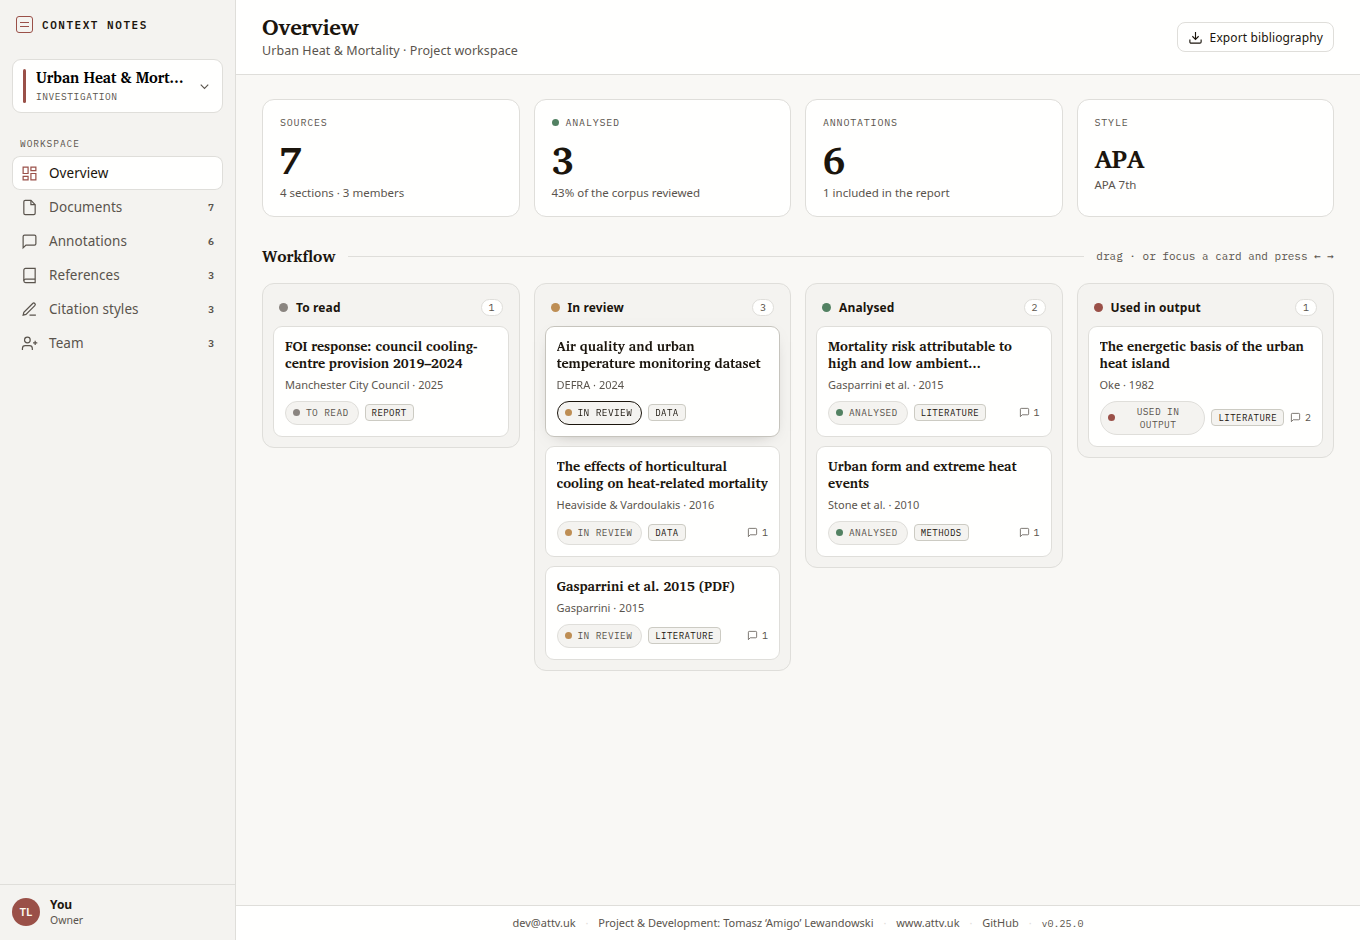
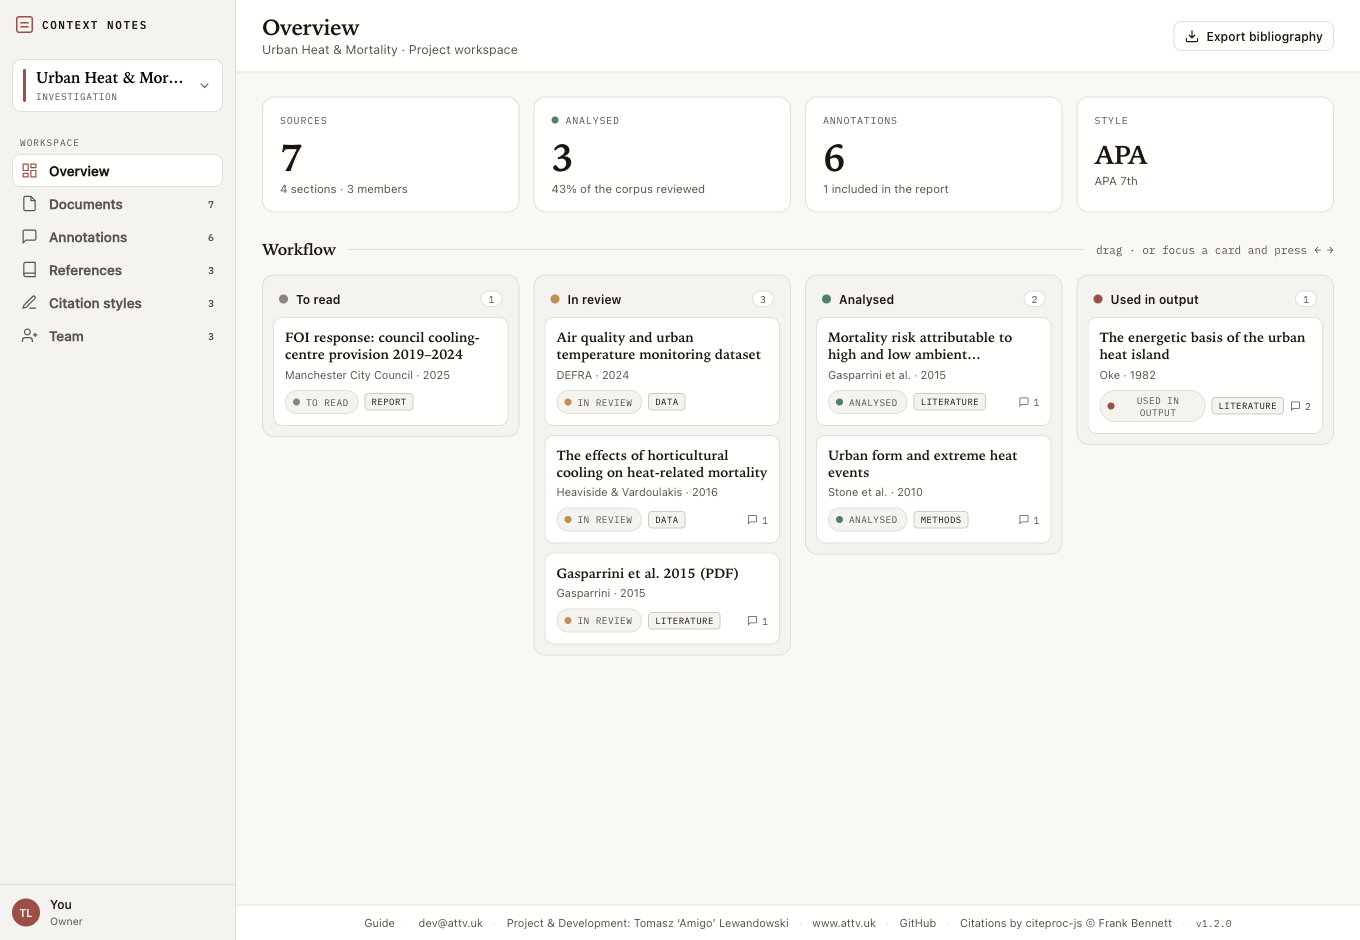
Tell the truth when Chrome won't let us read the tab, and offer the standing grant
Field report with the panel open on a real SAGE article: the capture card
said "No page metadata — open an article to capture it" while an article
with full Highwire tags and a DOI was open. The page was fine; Chrome was
refusing the injection. activeTab is granted only for the tab where the
toolbar icon was clicked and dies on navigation — so with the panel left
open, every page the user browses to next is unscriptable, and the panel
blamed the page for it. Automation never caught this because a gesture
grant cannot be driven by a test; a human found it in five minutes.

- scanActiveTab now distinguishes "Chrome refused the injection"
  (ScanAccessError) from "nothing to scan".
- The capture card gets an honest third state: "No access to this tab yet —
  let Context Notes read pages you open", with the File button becoming an
  "Allow reading pages" action. The click is the user gesture
  permissions.request needs; on grant the preview loads immediately, and
  the optional_host_permissions pattern the manifest has always declared
  finally has its intended consumer. Declining keeps the per-invocation
  behaviour and says how to use it.
- PRIVACY.md documents the optional standing grant (local-only reads,
  revocable wholesale or per site in Site access); the guide's step 1
  mentions the button; docs/ pages regenerated.
- New e2e locks the honest state in: an unscriptable tab must show
  "No access to this tab yet" with an enabled "Allow reading pages" button,
[…]

diff --git a/src/sidepanel/main.ts b/src/sidepanel/main.ts
@@ -4,7 +4,12 @@
  */
 import './panel.css';
 import { sendRequest } from '../adapters/chrome/messaging';
-import { scanActiveTab, captureActiveTab } from '../adapters/chrome/capture';
+import {
+  scanActiveTab,
+  captureActiveTab,
+  requestStandingPageAccess,
+  ScanAccessError,
+} from '../adapters/chrome/capture';
 import { buildCaptureInput } from '../adapters/chrome/page-scan';
 import { isSearchPage } from '../core/extract/metadata';
 import { getActiveProjectId, setActiveProjectId } from '../adapters/chrome/active-project';
@@ -48,6 +53,9 @@ interface State {
    *  the query string as a "source". The File button is disabled with an
    *  explanation instead. */
   previewIsSearchPage: boolean;
+  /** Chrome refused to read the active tab (activeTab grant spent or never
+   *  given). Shown as its own honest state — NOT "no page metadata". */
+  previewBlocked: boolean;
   /** Id of the most recently filed reference — drives the cite buttons. */
   filedReferenceId: string | null;
   /** URL of the most recently filed page — so "Filed ✓" tracks the *page*, not
@@ -76,6 +84,7 @@ const state: State = {
   filter: { search: '', status: 'all' },
   preview: null,
   previewIsSearchPage: false,
+  previewBlocked: false,
   filedReferenceId: null,
   filedUrl: null,
   pageAnnotations: [],
@@ -188,9 +197,11 @@ async function loadPreview(): Promise<void> {
     const scan = await scanActiveTab();
     state.preview = buildCaptureInput(scan, state.activeProjectId);
     state.previewIsSearchPage = isSearchPage(scan.url, scan.raw.metaTags ?? {});
-  } catch {
+    state.previewBlocked = false;
+  } catch (err) {
     state.preview = null;
     state.previewIsSearchPage = false;
+    state.previewBlocked = err instanceof ScanAccessError;
   }
 }
 
@@ -249,11 +260,31 @@ function renderCaptureCard(): void {
   const meta = $('capMeta');
   const fileBtn = $<HTMLButtonElement>('fileBtn');
 
+  if (!state.preview && state.previewBlocked) {
+    // The article IS open — Chrome just hasn't let us read the tab: the
+    // activeTab grant is spent by navigation. Saying "no page metadata" here
+    // sent users hunting for a problem the page doesn't have. Offer the
+    // standing grant; the click below is the user gesture the request needs.
+    type.textContent = 'No access to this tab yet';
+    title.textContent = 'Let Context Notes read pages you open';
+    meta.textContent =
+      'Chrome grants one-time access only to the tab where you clicked the toolbar icon. ' +
+      'Allow reading pages to preview and file any tab — revocable per site in Site access.';
+    fileBtn.disabled = false;
+    fileBtn.textContent = 'Allow reading pages';
+    fileBtn.dataset['mode'] = 'grant';
+    $<HTMLButtonElement>('copyInText').disabled = true;
+    $<HTMLButtonElement>('copyBiblio').disabled = true;
+    return;
+  }
+  fileBtn.dataset['mode'] = 'file';
+
   if (!state.preview) {
     type.textContent = 'No page metadata';
     title.textContent = 'Open an article to capture it';
     meta.textContent = '';
     fileBtn.disabled = true;
+    fileBtn.textContent = 'File into project';
     return;
   }
 
@@ -1066,7 +1097,21 @@ async function init(): Promise<void> {
     state.filter.search = (e.target as HTMLInputElement).value;
     renderList();
   });
-  $('fileBtn').addEventListener('click', () => void fileCurrentPage());
+  $('fileBtn').addEventListener('click', () => {
+    if ($<HTMLButtonElement>('fileBtn').dataset['mode'] === 'grant') {
+      void (async () => {
+        const granted = await requestStandingPageAccess();
+        if (granted) {
+          toast('Pages you open can now be previewed and filed');
+          await refreshPreview();
+        } else {
+          toast('Not granted — reopen the panel from the toolbar icon on the page you want', true);
+        }
+      })();
+      return;
+    }
+    void fileCurrentPage();
+  });
   $('copyInText').addEventListener('click', () => void copyCaptureInText());
   $('copyBiblio').addEventListener('click', () => void copyCaptureBiblio());
   $('bibBtn').addEventListener('click', () => void copyProjectBibliography());

diff --git a/docs/privacy.html b/docs/privacy.html
@@ -68,7 +68,7 @@
 <h2>What the extension does NOT do</h2>
 <ul><li><strong>No servers.</strong> There is no backend. The extension never sends your data anywhere.</li><li><strong>No telemetry or analytics.</strong> Nothing about your usage is collected or transmitted.</li><li><strong>No third-party sharing.</strong> No data is sold, shared, or disclosed to anyone.</li><li><strong>No accounts.</strong> There is no sign-in and no user identifier.</li><li><strong>No remote code.</strong> Manifest V3 forbids it; every asset (citation styles, the PDF reader, the citation engine, fonts) is bundled inside the extension.</li></ul>
 <h2>Permissions and why they are used</h2>
-<ul><li><strong><code>storage</code></strong> — to keep your projects and notes in local browser storage.</li><li><strong><code>activeTab</code> / <code>scripting</code></strong> — to inject the annotator into the page you are actively viewing, on demand, when you choose to annotate it.</li><li><strong><code>sidePanel</code></strong> — the extension's main workspace surface.</li><li><strong>Optional host permissions (<code>*://*/*</code>)</strong> — requested <strong>per site, only when you choose to annotate there</strong>, so the extension can read the text on that page to anchor your highlights. It is never granted up front, and the page content is only read locally to create your annotation — it is never transmitted.</li></ul>
+<ul><li><strong><code>storage</code></strong> — to keep your projects and notes in local browser storage.</li><li><strong><code>activeTab</code> / <code>scripting</code></strong> — to inject the annotator into the page you are actively viewing, on demand, when you choose to annotate it.</li><li><strong><code>sidePanel</code></strong> — the extension's main workspace surface.</li><li><strong>Optional host permissions (<code>*://*/*</code>)</strong> — never granted up front, and page content is only ever read locally; nothing is transmitted. Two user-initiated grants exist: - <strong>per site, when you choose to annotate there</strong>, so the extension can read the text on that page to anchor your highlights; - <strong>optionally for pages you open</strong>, if you press <em>Allow reading pages</em> in the side panel's capture card. Chrome's one-time <code>activeTab</code> access covers only the tab where you clicked the toolbar icon and expires on navigation, so without this grant the panel cannot preview the next page you browse to. The grant only feeds the on-device capture preview, and you can revoke it — wholesale or per site — in <code>chrome://extensions</code> → *Site access* at any time.</li></ul>
 <p>After you opt in on a site, the annotator is registered to load automatically <strong>on that site only</strong>, so your highlights repaint on your next visit without another prompt. You can revoke a site at any time in <code>chrome://extensions</code> → Scientific Context Notes → *Details* → *Site access*; the extension listens for that revocation and removes its auto-loading registration for the site immediately.</p>
 <h2>Network requests you initiate</h2>
 <p>Two optional features make a network request <strong>only when you ask for one</strong>, and only to the service you named:</p>
@@ -89,7 +89,7 @@
   <span aria-hidden="true">·</span>
   <a href="https://github.com/AmigoUK/Research-Chrome-Extension" target="_blank" rel="noreferrer">GitHub</a>
   <span aria-hidden="true">·</span>
-  <span>v1.0.1</span>
+  <span>v1.2.0</span>
 </footer>
 </body>
 </html>

diff --git a/src/adapters/chrome/capture.ts b/src/adapters/chrome/capture.ts
@@ -16,13 +16,57 @@ async function getActiveTabId(): Promise<number> {
   return tab.id;
 }
 
+/**
+ * Chrome refused to inject into the tab. In the field this is the NORMAL
+ * state, not an edge case: `activeTab` is granted for the one tab the user
+ * invoked the extension on and dies on navigation — so with the panel left
+ * open, every new page the user browses to is unscriptable until either a
+ * fresh invocation or a standing host grant. Callers must tell the user the
+ * truth ("no access yet") rather than "this page has no metadata".
+ */
+export class ScanAccessError extends Error {
+  constructor(cause: unknown) {
+    super(cause instanceof Error ? cause.message : String(cause));
+    this.name = 'ScanAccessError';
+  }
+}
+
+/** The optional standing grant that makes the preview work on every tab. */
+export const ALL_SITES_ORIGIN = '*://*/*';
+
+/** True when the user has granted standing access to read pages. */
+export async function hasStandingPageAccess(): Promise<boolean> {
+  try {
+    return await chrome.permissions.contains({ origins: [ALL_SITES_ORIGIN] });
+  } catch {
+    return false;
+  }
+}
+
+/**
+ * Ask for the standing grant. MUST be called from a user gesture. Returns
+ * whether the user accepted.
+ */
+export async function requestStandingPageAccess(): Promise<boolean> {
+  try {
+    return await chrome.permissions.request({ origins: [ALL_SITES_ORIGIN] });
+  } catch {
+    return false;
+  }
+}
+
 /** Inject the scanner into the active tab and return its primitives. */
 export async function scanActiveTab(): Promise<RawPageScan> {
   const tabId = await getActiveTabId();
-  const [injection] = await chrome.scripting.executeScript({
-    target: { tabId },
-    func: scanDocumentRaw,
-  });
+  let injection;
+  try {
+    [injection] = await chrome.scripting.executeScript({
+      target: { tabId },
+      func: scanDocumentRaw,
+    });
+  } catch (err) {
+    throw new ScanAccessError(err);
+  }
   const scan = injection?.result as RawPageScan | undefined;
   if (!scan) throw new Error('Page scan returned no result');
   return scan;

diff --git a/e2e/onboarding.spec.ts b/e2e/onboarding.spec.ts
@@ -61,6 +61,20 @@ test('the panel header reaches the guide and the dashboard', async () => {
   await page.close();
 });
 
+test('an unscriptable tab shows the honest no-access state, not "no page metadata"', async () => {
+  // The panel-as-a-tab harness IS the field failure mode: Chrome refuses to
+  // inject into this tab (extension page here; a spent activeTab grant in
+  // real use), which used to render as "No page metadata / Open an article
+  // to capture it" while the user was staring at an open article.
+  const page = await context.newPage();
+  await page.goto(url('src', 'sidepanel', 'index.html'));
+  await expect(page.locator('#capType')).toHaveText('No access to this tab yet');
+  const fileBtn = page.locator('#fileBtn');
+  await expect(fileBtn).toHaveText('Allow reading pages');
+  await expect(fileBtn).toBeEnabled();
+  await page.close();
+});
+
 test('the checklist starts unchecked, checks off a filed source, and hides once dismissed', async () => {
   const page = await context.newPage();
   await page.goto(url('src', 'sidepanel', 'index.html'));

diff --git a/src/onboarding/index.html b/src/onboarding/index.html
@@ -40,7 +40,9 @@
               when a page has nothing to file — and press <span class="ui">File into project</span>.
               When the page carries a DOI, the record is completed from the DOI registry: structured
               authors, year, journal, volume, issue, pages. Fix anything by hand later via
-              <span class="ui">Dashboard → Documents → Edit</span>.
+              <span class="ui">Dashboard → Documents → Edit</span>. If the panel says it has
+              <b>no access to a tab yet</b>, press <span class="ui">Allow reading pages</span> — one
+              prompt, revocable any time in Site access.
             </p>
           </div>
         </li>

diff --git a/docs/index.html b/docs/index.html
@@ -103,7 +103,7 @@ annotate there. The full statement is in the <a href="./privacy.html">privacy po
   <span aria-hidden="true">·</span>
   <a href="https://github.com/AmigoUK/Research-Chrome-Extension" target="_blank" rel="noreferrer">GitHub</a>
   <span aria-hidden="true">·</span>
-  <span>v1.0.1</span>
+  <span>v1.2.0</span>
 </footer>
 </body>
 </html>

diff --git a/doc/PRIVACY.md b/doc/PRIVACY.md
@@ -30,10 +30,15 @@ browser's IndexedDB**. It stays on your device.
 - **`activeTab` / `scripting`** — to inject the annotator into the page you are actively viewing,
   on demand, when you choose to annotate it.
 - **`sidePanel`** — the extension's main workspace surface.
-- **Optional host permissions (`*://*/*`)** — requested **per site, only when you choose to annotate
-  there**, so the extension can read the text on that page to anchor your highlights. It is never
-  granted up front, and the page content is only read locally to create your annotation — it is
-  never transmitted.
+- **Optional host permissions (`*://*/*`)** — never granted up front, and page content is only ever
+  read locally; nothing is transmitted. Two user-initiated grants exist:
+  - **per site, when you choose to annotate there**, so the extension can read the text on that
+    page to anchor your highlights;
+  - **optionally for pages you open**, if you press _Allow reading pages_ in the side panel's
+    capture card. Chrome's one-time `activeTab` access covers only the tab where you clicked the
+    toolbar icon and expires on navigation, so without this grant the panel cannot preview the
+    next page you browse to. The grant only feeds the on-device capture preview, and you can
+    revoke it — wholesale or per site — in `chrome://extensions` → *Site access* at any time.
 
 After you opt in on a site, the annotator is registered to load automatically **on that site only**,
 so your highlights repaint on your next visit without another prompt. You can revoke a site at any
